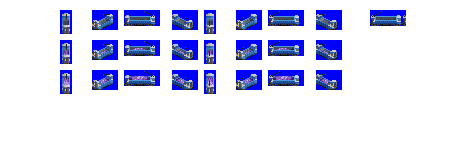
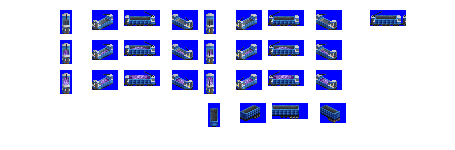
Change: (WIP) progress on reworking dump trams; test movin more trams to 16/8 length

diff --git a/src/vehicles/catchcan.py b/src/vehicles/catchcan.py
@@ -10,12 +10,16 @@ consist = Tanker(id = 'catchcan',
                 intro_date = 1902)
 
 consist.add_unit(weight = 16,
-                capacity = 30,
+                capacity = 22,
                 vehicle_length = 6,
                 effects = ['EFFECT_SPRITE_ELECTRIC, 0, 0, 10'])
 
+consist.add_unit(weight = 5,
+                capacity = 16,
+                vehicle_length = 4)
+
 consist.add_unit(weight = 16,
-                capacity = 30,
+                capacity = 22,
                 vehicle_length = 6,
                 effects = ['EFFECT_SPRITE_ELECTRIC, 0, 0, 10'])
 

diff --git a/src/vehicles/nettlebridge.py b/src/vehicles/nettlebridge.py
@@ -10,8 +10,14 @@ consist = DumpHauler(id = 'nettlebridge',
                 intro_date = 1944)
 
 consist.add_unit(weight = 15,
+                capacity = 0,
+                vehicle_length = 4,
+                effects = ['EFFECT_SPRITE_ELECTRIC, 0, 0, 10'],
+                always_use_same_spriterow = True)
+
+consist.add_unit(weight = 10,
                 capacity = 36,
-                vehicle_length = 8,
+                vehicle_length = 6,
                 effects = ['EFFECT_SPRITE_ELECTRIC, 0, 0, 10'],
                 repeat = 2)
 
